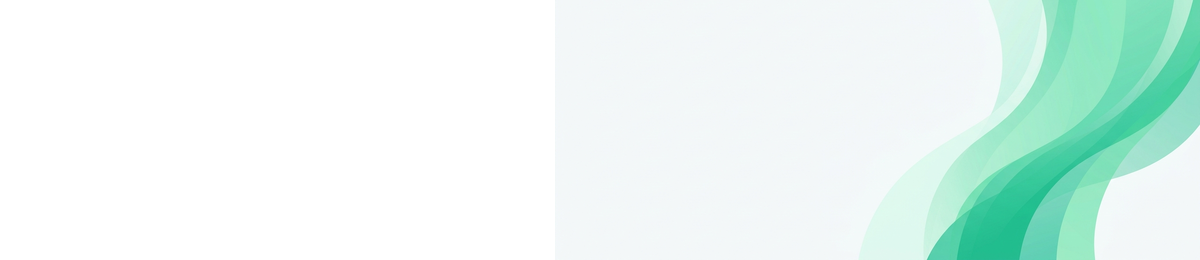
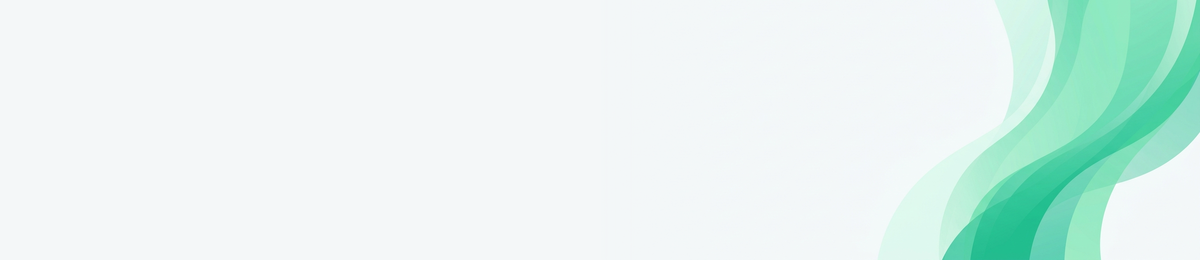
email template modified

Changed region(s): [[0.7708, 0.0, 1.0, 1.0], [0.8017, 0.0, 0.8325, 0.0615]]

diff --git a/src/services/email.service.js b/src/services/email.service.js
@@ -176,7 +176,7 @@ export class EmailService {
       heroBg:     `${CDN}/v1794782062/artifix/email/hero-background-linen.png`,
       heroBanner: `${CDN}/v1794782063/artifix/email/hero-banner-master.png`,
       wave:       `${CDN}/v1794776749/artifix/email/dossier-corner-wave.png`,
-      dossierBg:  `${CDN}/v1794794657/artifix/email/dossier-background-seamless.png`,
+      dossierBg:  `${CDN}/v1795165506/artifix/email/dossier-background-seamless.png`,
       shield:     `${CDN}/v1794778170/artifix/email/icon-shield.jpg`,
       handshake:  `${CDN}/v1794778167/artifix/email/icon-handshake.jpg`,
       chart:      `${CDN}/v1794778164/artifix/email/icon-chart.jpg`,
@@ -403,10 +403,10 @@ export class EmailService {
   <tr><td style="padding:0 0 14px 0;">
     <!--[if gte mso 9]>
     <v:rect xmlns:v="urn:schemas-microsoft-com:vml" fill="true" stroke="false" style="width:600px;height:130px;">
-    <v:fill type="tile" src="${A.dossierBg}" color="#F8FAF9" />
+    <v:fill type="tile" src="${A.dossierBg}" color="#F4F7F8" />
     <v:textbox inset="0,0,0,0">
     <![endif]-->
-    <table role="presentation" width="100%" border="0" cellspacing="0" cellpadding="0" class="dossier-table" style="background-color:#F8FAF9;background-image:url('${A.dossierBg}');background-size:cover;background-position:right bottom;background-repeat:no-repeat;border:1px solid #E2E8F0;border-radius:18px;overflow:hidden;">
+    <table role="presentation" width="100%" border="0" cellspacing="0" cellpadding="0" class="dossier-table" bgcolor="#F4F7F8" style="background-color:#F4F7F8;background-image:url('${A.dossierBg}');background-size:cover;background-position:right bottom;background-repeat:no-repeat;border:1px solid #E2E8F0;border-radius:18px;overflow:hidden;">
       <tr>
         <td class="dossier-card-td" style="vertical-align:middle;padding:22px 24px;">
           <div class="dossier-label" style="font-size:9.5px;font-weight:800;color:#0F172A;letter-spacing:1.4px;text-transform:uppercase;margin-bottom:12px;">APPLICATION REFERENCE CODE</div>

diff --git a/frontend/public/email_mockup_preview.html b/frontend/public/email_mockup_preview.html
@@ -185,10 +185,10 @@
     <td style="padding:0 0 14px 0;">
       <!--[if gte mso 9]>
       <v:rect xmlns:v="urn:schemas-microsoft-com:vml" fill="true" stroke="false" style="width:600px;height:130px;">
-      <v:fill type="tile" src="https://res.cloudinary.com/dclhgfoah/image/upload/v1794794657/artifix/email/dossier-background-seamless.png" color="#F8FAF9" />
+      <v:fill type="tile" src="https://res.cloudinary.com/dclhgfoah/image/upload/v1795165506/artifix/email/dossier-background-seamless.png" color="#F4F7F8" />
       <v:textbox inset="0,0,0,0">
       <![endif]-->
-      <table role="presentation" width="100%" border="0" cellspacing="0" cellpadding="0" class="dossier-table" style="background-color:#F8FAF9;background-image:url('https://res.cloudinary.com/dclhgfoah/image/upload/v1794794657/artifix/email/dossier-background-seamless.png');background-size:cover;background-position:right bottom;background-repeat:no-repeat;border:1px solid #E2E8F0;border-radius:18px;overflow:hidden;">
+      <table role="presentation" width="100%" border="0" cellspacing="0" cellpadding="0" class="dossier-table" bgcolor="#F4F7F8" style="background-color:#F4F7F8;background-image:url('https://res.cloudinary.com/dclhgfoah/image/upload/v1795165506/artifix/email/dossier-background-seamless.png');background-size:cover;background-position:right bottom;background-repeat:no-repeat;border:1px solid #E2E8F0;border-radius:18px;overflow:hidden;">
         <tr>
           <td class="dossier-card-td" style="vertical-align:middle;padding:22px 24px;">
             <div class="dossier-label" style="font-size:9.5px;font-weight:800;color:#0F172A;letter-spacing:1.4px;text-transform:uppercase;margin-bottom:12px;">APPLICATION REFERENCE CODE</div>
